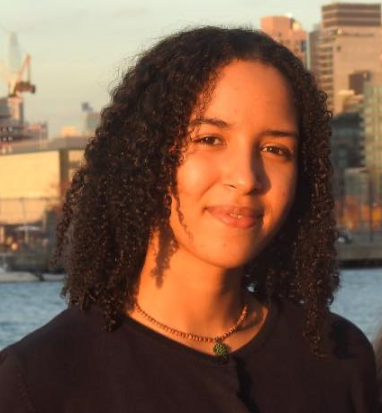
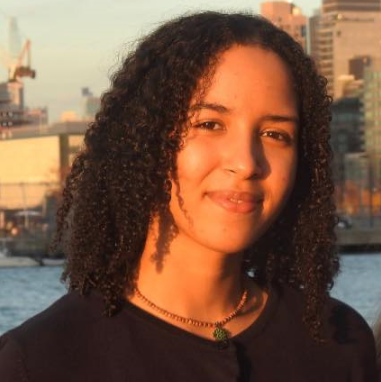
add/fix exec pictures

diff --git a/team.html b/team.html
@@ -83,7 +83,7 @@
                     <div class="6u 12u(narrower)" title="">
                         
 			            <section class="box special" title="">
-			                <span class="image featured" title=""><img src="images/edwin.jpg" alt="" title="" style=""></span>
+			                <span class="image featured" title=""><img src="images/edwin.png" alt="" title="" style=""></span>
 			                <h2>Edwin Lin</h2>
                             <h3>Deputy Chief of Staff</h3>
 			                <p><b>Email:</b> edwin.lin@stuysu.org</p>
